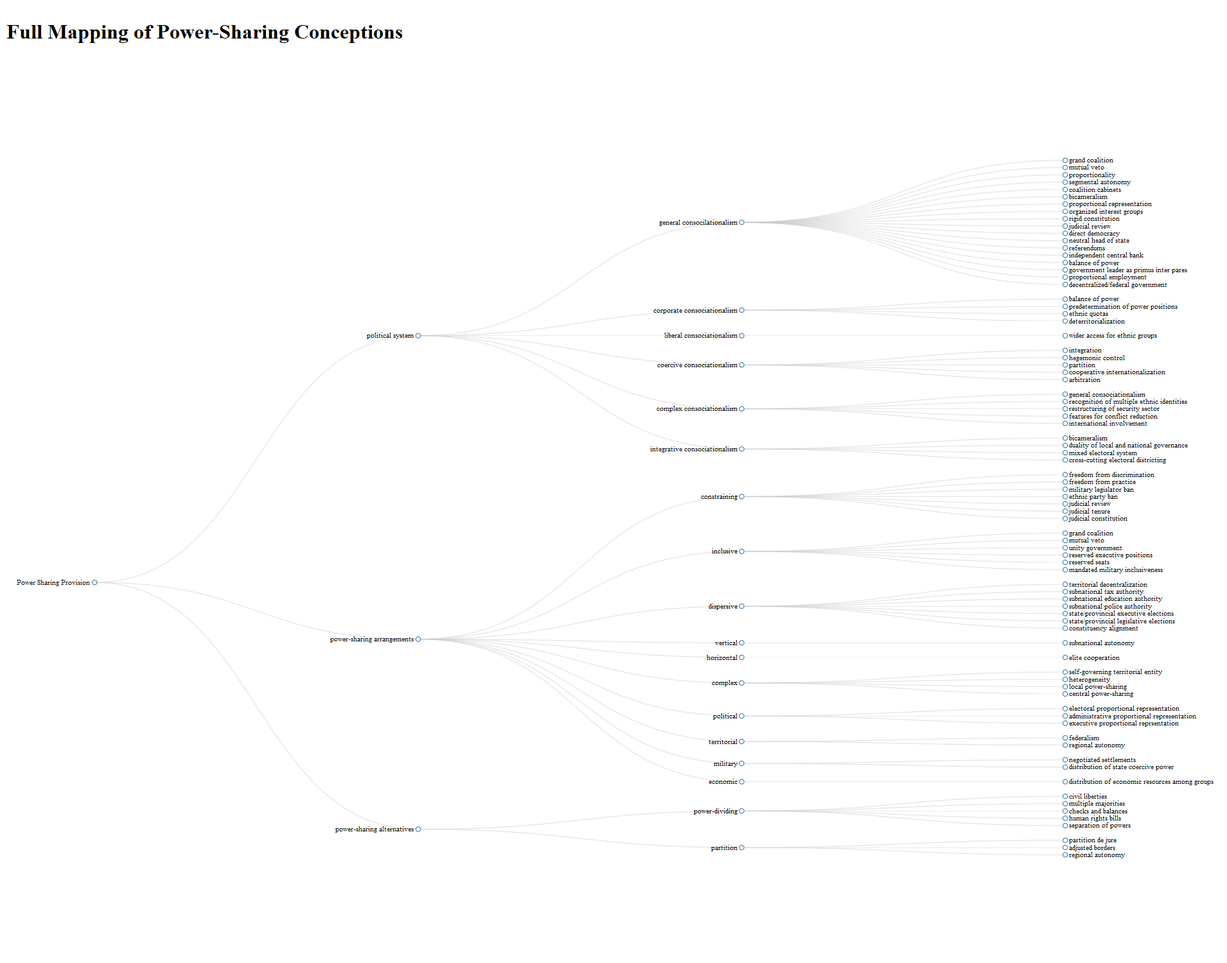
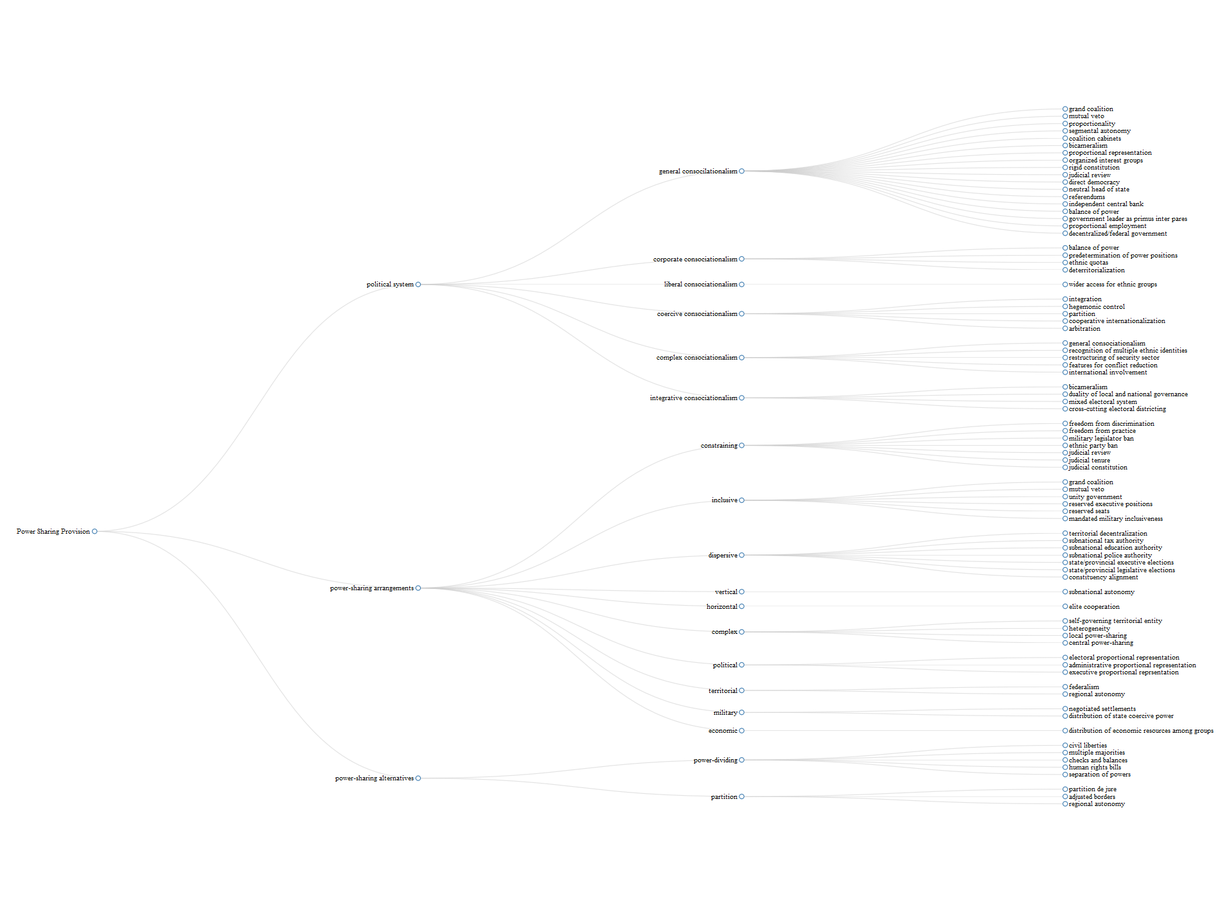
updated ont vis

diff --git a/vis/psp_ontology_vis.html b/vis/psp_ontology_vis.html
@@ -1108,14 +1108,11 @@ return function(){for(var n=0,e=0;e<t;++e)n+=Math.random();return n}},um=functio
 </head>
 <body style="background-color: white;">
 <div id="htmlwidget_container">
-<h1>
-Full Mapping of Power-Sharing Conceptions
-</h1>
-<div id="htmlwidget-6fadf928797fe097ff94" class="diagonalNetwork html-widget" style="width:1900px;height:1400px;">
+<div id="htmlwidget-93b352dbcebba3dd1598" class="diagonalNetwork html-widget" style="width:1900px;height:1400px;">
 
 </div>
 </div>
-<script type="application/json" data-for="htmlwidget-6fadf928797fe097ff94">{"x":{"root":{"name":"Power Sharing Provision","children":[{"name":"political system","children":[{"name":"general consocilationalism","children":[{"name":"grand coalition","child_0":"political system","child_1":"general consocilationalism","provisions":"grand coalition"},{"name":"mutual veto","child_0":"political system","child_1":"general consocilationalism","provisions":"mutual veto"},{"name":"proportionality","child_0":"political system","child_1":"general consocilationalism","provisions":"proportionality"},{"name":"segmental autonomy","child_0":"political system","child_1":"general consocilationalism","provisions":"segmental autonomy"},{"name":"coalition cabinets","child_0":"political system","child_1":"general consocilationalism","provisions":"coalition cabinets"},{"name":"bicameralism","child_0":"political system","child_1":"general consocilationalism","provisions":"bicameralism"},{"name":"proportional representation","child_0":"political system","child_1":"general consocilationalism","provisions":"proportional representation"},{"name":"organized interest groups","child_0":"political system","child_1":"general consocilationalism","provisions":"organized interest groups"},{"name":"rigid constitution","child_0":"political system","child_1":"general consocilationalism","provisions":"rigid constitution"},{"name":"judicial review","child_0":"political system","child_1":"general consocilationalism","provisions":"judicial review"},{"name":"direct democracy","child_0":"political system","child_1":"general consocilationalism","provisions":"direct democracy"},{"name":"neutral head of state","child_0":"political system","child_1":"general consocilationalism","provisions":"neutral head of state"},{"name":"referendums","child_0":"political system","child_1":"general consocilationalism","provisions":"referendums"},{"name":"independent central bank","child_0":"political system","child_1":"general consocilationalism","provisions":"independent central bank"},{"name":"balance of power","child_0":"political system","child_1":"general consocilationalism","provisions":"balance of power"},{"name":"government leader as primus inter pares","child_0":"political system","child_1":"general consocilationalism","provisions":"government leader as primus inter pares"},{"name":"proportional employment","child_0":"political system","child_1":"general consocilationalism","provisions":"proportional employment"},{"name":"decentralized/federal government","child_0":"political system","child_1":"general consocilationalism","provisions":"decentralized/federal government"}]},{"name":"corporate consociationalism","children":[{"name":"balance of power","child_0":"political system","child_1":"corporate consociationalism","provisions":"balance of power"},{"name":"predetermination of power positions","child_0":"political system","child_1":"corporate consociationalism","provisions":"predetermination of power positions"},{"name":"ethnic quotas","child_0":"political system","child_1":"corporate consociationalism","provisions":"ethnic quotas"},{"name":"deterritorialization","child_0":"political system","child_1":"corporate consociationalism","provisions":"deterritorialization"}]},{"name":"liberal consociationalism","children":[{"name":"wider access for ethnic groups","child_0":"political system","child_1":"liberal consociationalism","provisions":"wider access for ethnic groups"}]},{"name":"coercive consociationalism","children":[{"name":"integration","child_0":"political system","child_1":"coercive consociationalism","provisions":"integration"},{"name":"hegemonic control","child_0":"political system","child_1":"coercive consociationalism","provisions":"hegemonic control"},{"name":"partition","child_0":"political system","child_1":"coercive consociationalism","provisions":"partition"},{"name":"cooperative internationalization","child_0":"political system","child_1":"coercive consociationalism","provisions":"cooperative internationalization"},{"name":"arbitration","child_0":"political system","child_1":"coercive consociationalism","provisions":"arbitration"}]},{"name":"complex consociationalism","children":[{"name":"general consociationalism","child_0":"political system","child_1":"complex consociationalism","provisions":"general consociationalism"},{"name":"recognition of multiple ethnic identities","child_0":"political system","child_1":"complex consociationalism","provisions":"recognition of multiple ethnic identities"},{"name":"restructuring of security sector","child_0":"political system","child_1":"complex consociationalism","provisions":"restructuring of security sector"},{"name":"features for conflict reduction","child_0":"political system","child_1":"complex consociationalism","provisions":"features for conflict reduction"},{"name":"international involvement","child_0":"political system","child_1":"complex consociationalism","provisions":"international involvement"}]},{"name":"integrative consociationalism","children":[{"name":"bicameralism","child_0":"political system","child_1":"integrative consociationalism","provisions":"bicameralism"},{"name":"duality of local and national governance","child_0":"political system","child_1":"integrative consociationalism","provisions":"duality of local and national governance"},{"name":"mixed electoral system","child_0":"political system","child_1":"integrative consociationalism","provisions":"mixed electoral system"},{"name":"cross-cutting electoral districting","child_0":"political system","child_1":"integrative consociationalism","provisions":"cross-cutting electoral districting"}]}]},{"name":"power-sharing arrangements","children":[{"name":"constraining","children":[{"name":"freedom from discrimination","child_0":"power-sharing arrangements","child_1":"constraining","provisions":"freedom from discrimination"},{"name":"freedom from practice","child_0":"power-sharing arrangements","child_1":"constraining","provisions":"freedom from practice"},{"name":"military legislator ban","child_0":"power-sharing arrangements","child_1":"constraining","provisions":"military legislator ban"},{"name":"ethnic party ban","child_0":"power-sharing arrangements","child_1":"constraining","provisions":"ethnic party ban"},{"name":"judicial review","child_0":"power-sharing arrangements","child_1":"constraining","provisions":"judicial review"},{"name":"judicial tenure","child_0":"power-sharing arrangements","child_1":"constraining","provisions":"judicial tenure"},{"name":"judicial constitution","child_0":"power-sharing arrangements","child_1":"constraining","provisions":"judicial constitution"}]},{"name":"inclusive","children":[{"name":"grand coalition","child_0":"power-sharing arrangements","child_1":"inclusive","provisions":"grand coalition"},{"name":"mutual veto","child_0":"power-sharing arrangements","child_1":"inclusive","provisions":"mutual veto"},{"name":"unity government","child_0":"power-sharing arrangements","child_1":"inclusive","provisions":"unity government"},{"name":"reserved executive positions","child_0":"power-sharing arrangements","child_1":"inclusive","provisions":"reserved executive positions"},{"name":"reserved seats","child_0":"power-sharing arrangements","child_1":"inclusive","provisions":"reserved seats"},{"name":"mandated military inclusiveness","child_0":"power-sharing arrangements","child_1":"inclusive","provisions":"mandated military inclusiveness"}]},{"name":"dispersive","children":[{"name":"territorial decentralization","child_0":"power-sharing arrangements","child_1":"dispersive","provisions":"territorial decentralization"},{"name":"subnational tax authority","child_0":"power-sharing arrangements","child_1":"dispersive","provisions":"subnational tax authority"},{"name":"subnational education authority","child_0":"power-sharing arrangements","child_1":"dispersive","provisions":"subnational education authority"},{"name":"subnational police authority","child_0":"power-sharing arrangements","child_1":"dispersive","provisions":"subnational police authority"},{"name":"state/provincial executive elections","child_0":"power-sharing arrangements","child_1":"dispersive","provisions":"state/provincial executive elections"},{"name":"state/provincial legislative elections","child_0":"power-sharing arrangements","child_1":"dispersive","provisions":"state/provincial legislative elections"},{"name":"constituency alignment","child_0":"power-sharing arrangements","child_1":"dispersive","provisions":"constituency alignment"}]},{"name":"vertical","children":[{"name":"subnational autonomy","child_0":"power-sharing arrangements","child_1":"vertical","provisions":"subnational autonomy"}]},{"name":"horizontal","children":[{"name":"elite cooperation","child_0":"power-sharing arrangements","child_1":"horizontal","provisions":"elite cooperation"}]},{"name":"complex","children":[{"name":"self-governing territorial entity","child_0":"power-sharing arrangements","child_1":"complex","provisions":"self-governing territorial entity"},{"name":"heterogeneity","child_0":"power-sharing arrangements","child_1":"complex","provisions":"heterogeneity"},{"name":"local power-sharing","child_0":"power-sharing arrangements","child_1":"complex","provisions":"local power-sharing"},{"name":"central power-sharing","child_0":"power-sharing arrangements","child_1":"complex","provisions":"central power-sharing"}]},{"name":"political","children":[{"name":"electoral proportional representation","child_0":"power-sharing arrangements","child_1":"political","provisions":"electoral proportional representation"},{"name":"administrative proportional representation","child_0":"power-sharing arrangements","child_1":"political","provisions":"administrative proportional representation"},{"name":"executive proportional reprsentation","child_0":"power-sharing arrangements","child_1":"political","provisions":"executive proportional reprsentation"}]},{"name":"territorial","children":[{"name":"federalism","child_0":"power-sharing arrangements","child_1":"territorial","provisions":"federalism"},{"name":"regional autonomy","child_0":"power-sharing arrangements","child_1":"territorial","provisions":"regional autonomy"}]},{"name":"military","children":[{"name":"negotiated settlements","child_0":"power-sharing arrangements","child_1":"military","provisions":"negotiated settlements"},{"name":"distribution of state coercive power","child_0":"power-sharing arrangements","child_1":"military","provisions":"distribution of state coercive power"}]},{"name":"economic","children":[{"name":"distribution of economic resources among groups","child_0":"power-sharing arrangements","child_1":"economic","provisions":"distribution of economic resources among groups"}]}]},{"name":"power-sharing alternatives","children":[{"name":"power-dividing","children":[{"name":"civil liberties","child_0":"power-sharing alternatives","child_1":"power-dividing","provisions":"civil liberties"},{"name":"multiple majorities","child_0":"power-sharing alternatives","child_1":"power-dividing","provisions":"multiple majorities"},{"name":"checks and balances","child_0":"power-sharing alternatives","child_1":"power-dividing","provisions":"checks and balances"},{"name":"human rights bills","child_0":"power-sharing alternatives","child_1":"power-dividing","provisions":"human rights bills"},{"name":"separation of powers","child_0":"power-sharing alternatives","child_1":"power-dividing","provisions":"separation of powers"}]},{"name":"partition","children":[{"name":"partition de jure","child_0":"power-sharing alternatives","child_1":"partition","provisions":"partition de jure"},{"name":"adjusted borders","child_0":"power-sharing alternatives","child_1":"partition","provisions":"adjusted borders"},{"name":"regional autonomy","child_0":"power-sharing alternatives","child_1":"partition","provisions":"regional autonomy"}]}]}]},"options":{"height":1400,"width":1900,"fontSize":14,"fontFamily":"serif","linkColour":"#ccc","nodeColour":"#fff","nodeStroke":"steelblue","textColour":"black","margin":{"top":null,"right":null,"bottom":null,"left":null},"opacity":100}},"evals":[],"jsHooks":[]}</script>
-<script type="application/htmlwidget-sizing" data-for="htmlwidget-6fadf928797fe097ff94">{"viewer":{"width":1900,"height":1400,"padding":10,"fill":false},"browser":{"width":1900,"height":1400,"padding":10,"fill":false}}</script>
+<script type="application/json" data-for="htmlwidget-93b352dbcebba3dd1598">{"x":{"root":{"name":"Power Sharing Provision","children":[{"name":"political system","children":[{"name":"general consocilationalism","children":[{"name":"grand coalition","child_0":"political system","child_1":"general consocilationalism","provisions":"grand coalition"},{"name":"mutual veto","child_0":"political system","child_1":"general consocilationalism","provisions":"mutual veto"},{"name":"proportionality","child_0":"political system","child_1":"general consocilationalism","provisions":"proportionality"},{"name":"segmental autonomy","child_0":"political system","child_1":"general consocilationalism","provisions":"segmental autonomy"},{"name":"coalition cabinets","child_0":"political system","child_1":"general consocilationalism","provisions":"coalition cabinets"},{"name":"bicameralism","child_0":"political system","child_1":"general consocilationalism","provisions":"bicameralism"},{"name":"proportional representation","child_0":"political system","child_1":"general consocilationalism","provisions":"proportional representation"},{"name":"organized interest groups","child_0":"political system","child_1":"general consocilationalism","provisions":"organized interest groups"},{"name":"rigid constitution","child_0":"political system","child_1":"general consocilationalism","provisions":"rigid constitution"},{"name":"judicial review","child_0":"political system","child_1":"general consocilationalism","provisions":"judicial review"},{"name":"direct democracy","child_0":"political system","child_1":"general consocilationalism","provisions":"direct democracy"},{"name":"neutral head of state","child_0":"political system","child_1":"general consocilationalism","provisions":"neutral head of state"},{"name":"referendums","child_0":"political system","child_1":"general consocilationalism","provisions":"referendums"},{"name":"independent central bank","child_0":"political system","child_1":"general consocilationalism","provisions":"independent central bank"},{"name":"balance of power","child_0":"political system","child_1":"general consocilationalism","provisions":"balance of power"},{"name":"government leader as primus inter pares","child_0":"political system","child_1":"general consocilationalism","provisions":"government leader as primus inter pares"},{"name":"proportional employment","child_0":"political system","child_1":"general consocilationalism","provisions":"proportional employment"},{"name":"decentralized/federal government","child_0":"political system","child_1":"general consocilationalism","provisions":"decentralized/federal government"}]},{"name":"corporate consociationalism","children":[{"name":"balance of power","child_0":"political system","child_1":"corporate consociationalism","provisions":"balance of power"},{"name":"predetermination of power positions","child_0":"political system","child_1":"corporate consociationalism","provisions":"predetermination of power positions"},{"name":"ethnic quotas","child_0":"political system","child_1":"corporate consociationalism","provisions":"ethnic quotas"},{"name":"deterritorialization","child_0":"political system","child_1":"corporate consociationalism","provisions":"deterritorialization"}]},{"name":"liberal consociationalism","children":[{"name":"wider access for ethnic groups","child_0":"political system","child_1":"liberal consociationalism","provisions":"wider access for ethnic groups"}]},{"name":"coercive consociationalism","children":[{"name":"integration","child_0":"political system","child_1":"coercive consociationalism","provisions":"integration"},{"name":"hegemonic control","child_0":"political system","child_1":"coercive consociationalism","provisions":"hegemonic control"},{"name":"partition","child_0":"political system","child_1":"coercive consociationalism","provisions":"partition"},{"name":"cooperative internationalization","child_0":"political system","child_1":"coercive consociationalism","provisions":"cooperative internationalization"},{"name":"arbitration","child_0":"political system","child_1":"coercive consociationalism","provisions":"arbitration"}]},{"name":"complex consociationalism","children":[{"name":"general consociationalism","child_0":"political system","child_1":"complex consociationalism","provisions":"general consociationalism"},{"name":"recognition of multiple ethnic identities","child_0":"political system","child_1":"complex consociationalism","provisions":"recognition of multiple ethnic identities"},{"name":"restructuring of security sector","child_0":"political system","child_1":"complex consociationalism","provisions":"restructuring of security sector"},{"name":"features for conflict reduction","child_0":"political system","child_1":"complex consociationalism","provisions":"features for conflict reduction"},{"name":"international involvement","child_0":"political system","child_1":"complex consociationalism","provisions":"international involvement"}]},{"name":"integrative consociationalism","children":[{"name":"bicameralism","child_0":"political system","child_1":"integrative consociationalism","provisions":"bicameralism"},{"name":"duality of local and national governance","child_0":"political system","child_1":"integrative consociationalism","provisions":"duality of local and national governance"},{"name":"mixed electoral system","child_0":"political system","child_1":"integrative consociationalism","provisions":"mixed electoral system"},{"name":"cross-cutting electoral districting","child_0":"political system","child_1":"integrative consociationalism","provisions":"cross-cutting electoral districting"}]}]},{"name":"power-sharing arrangements","children":[{"name":"constraining","children":[{"name":"freedom from discrimination","child_0":"power-sharing arrangements","child_1":"constraining","provisions":"freedom from discrimination"},{"name":"freedom from practice","child_0":"power-sharing arrangements","child_1":"constraining","provisions":"freedom from practice"},{"name":"military legislator ban","child_0":"power-sharing arrangements","child_1":"constraining","provisions":"military legislator ban"},{"name":"ethnic party ban","child_0":"power-sharing arrangements","child_1":"constraining","provisions":"ethnic party ban"},{"name":"judicial review","child_0":"power-sharing arrangements","child_1":"constraining","provisions":"judicial review"},{"name":"judicial tenure","child_0":"power-sharing arrangements","child_1":"constraining","provisions":"judicial tenure"},{"name":"judicial constitution","child_0":"power-sharing arrangements","child_1":"constraining","provisions":"judicial constitution"}]},{"name":"inclusive","children":[{"name":"grand coalition","child_0":"power-sharing arrangements","child_1":"inclusive","provisions":"grand coalition"},{"name":"mutual veto","child_0":"power-sharing arrangements","child_1":"inclusive","provisions":"mutual veto"},{"name":"unity government","child_0":"power-sharing arrangements","child_1":"inclusive","provisions":"unity government"},{"name":"reserved executive positions","child_0":"power-sharing arrangements","child_1":"inclusive","provisions":"reserved executive positions"},{"name":"reserved seats","child_0":"power-sharing arrangements","child_1":"inclusive","provisions":"reserved seats"},{"name":"mandated military inclusiveness","child_0":"power-sharing arrangements","child_1":"inclusive","provisions":"mandated military inclusiveness"}]},{"name":"dispersive","children":[{"name":"territorial decentralization","child_0":"power-sharing arrangements","child_1":"dispersive","provisions":"territorial decentralization"},{"name":"subnational tax authority","child_0":"power-sharing arrangements","child_1":"dispersive","provisions":"subnational tax authority"},{"name":"subnational education authority","child_0":"power-sharing arrangements","child_1":"dispersive","provisions":"subnational education authority"},{"name":"subnational police authority","child_0":"power-sharing arrangements","child_1":"dispersive","provisions":"subnational police authority"},{"name":"state/provincial executive elections","child_0":"power-sharing arrangements","child_1":"dispersive","provisions":"state/provincial executive elections"},{"name":"state/provincial legislative elections","child_0":"power-sharing arrangements","child_1":"dispersive","provisions":"state/provincial legislative elections"},{"name":"constituency alignment","child_0":"power-sharing arrangements","child_1":"dispersive","provisions":"constituency alignment"}]},{"name":"vertical","children":[{"name":"subnational autonomy","child_0":"power-sharing arrangements","child_1":"vertical","provisions":"subnational autonomy"}]},{"name":"horizontal","children":[{"name":"elite cooperation","child_0":"power-sharing arrangements","child_1":"horizontal","provisions":"elite cooperation"}]},{"name":"complex","children":[{"name":"self-governing territorial entity","child_0":"power-sharing arrangements","child_1":"complex","provisions":"self-governing territorial entity"},{"name":"heterogeneity","child_0":"power-sharing arrangements","child_1":"complex","provisions":"heterogeneity"},{"name":"local power-sharing","child_0":"power-sharing arrangements","child_1":"complex","provisions":"local power-sharing"},{"name":"central power-sharing","child_0":"power-sharing arrangements","child_1":"complex","provisions":"central power-sharing"}]},{"name":"political","children":[{"name":"electoral proportional representation","child_0":"power-sharing arrangements","child_1":"political","provisions":"electoral proportional representation"},{"name":"administrative proportional representation","child_0":"power-sharing arrangements","child_1":"political","provisions":"administrative proportional representation"},{"name":"executive proportional reprsentation","child_0":"power-sharing arrangements","child_1":"political","provisions":"executive proportional reprsentation"}]},{"name":"territorial","children":[{"name":"federalism","child_0":"power-sharing arrangements","child_1":"territorial","provisions":"federalism"},{"name":"regional autonomy","child_0":"power-sharing arrangements","child_1":"territorial","provisions":"regional autonomy"}]},{"name":"military","children":[{"name":"negotiated settlements","child_0":"power-sharing arrangements","child_1":"military","provisions":"negotiated settlements"},{"name":"distribution of state coercive power","child_0":"power-sharing arrangements","child_1":"military","provisions":"distribution of state coercive power"}]},{"name":"economic","children":[{"name":"distribution of economic resources among groups","child_0":"power-sharing arrangements","child_1":"economic","provisions":"distribution of economic resources among groups"}]}]},{"name":"power-sharing alternatives","children":[{"name":"power-dividing","children":[{"name":"civil liberties","child_0":"power-sharing alternatives","child_1":"power-dividing","provisions":"civil liberties"},{"name":"multiple majorities","child_0":"power-sharing alternatives","child_1":"power-dividing","provisions":"multiple majorities"},{"name":"checks and balances","child_0":"power-sharing alternatives","child_1":"power-dividing","provisions":"checks and balances"},{"name":"human rights bills","child_0":"power-sharing alternatives","child_1":"power-dividing","provisions":"human rights bills"},{"name":"separation of powers","child_0":"power-sharing alternatives","child_1":"power-dividing","provisions":"separation of powers"}]},{"name":"partition","children":[{"name":"partition de jure","child_0":"power-sharing alternatives","child_1":"partition","provisions":"partition de jure"},{"name":"adjusted borders","child_0":"power-sharing alternatives","child_1":"partition","provisions":"adjusted borders"},{"name":"regional autonomy","child_0":"power-sharing alternatives","child_1":"partition","provisions":"regional autonomy"}]}]}]},"options":{"height":1400,"width":1900,"fontSize":14,"fontFamily":"serif","linkColour":"#ccc","nodeColour":"#fff","nodeStroke":"steelblue","textColour":"black","margin":{"top":null,"right":null,"bottom":null,"left":null},"opacity":100}},"evals":[],"jsHooks":[]}</script>
+<script type="application/htmlwidget-sizing" data-for="htmlwidget-93b352dbcebba3dd1598">{"viewer":{"width":1900,"height":1400,"padding":10,"fill":false},"browser":{"width":1900,"height":1400,"padding":10,"fill":false}}</script>
 </body>
 </html>

diff --git a/vis/reg_aut_ontology_vis.html b/vis/reg_aut_ontology_vis.html
@@ -1108,14 +1108,11 @@ return function(){for(var n=0,e=0;e<t;++e)n+=Math.random();return n}},um=functio
 </head>
 <body style="background-color: white;">
 <div id="htmlwidget_container">
-<h1>
-Mapping Regional Autonomy
-</h1>
-<div id="htmlwidget-ccd2c9d3e4355df64b0f" class="diagonalNetwork html-widget" style="width:1500px;height:1200px;">
+<div id="htmlwidget-90b245f5f049e669f25d" class="diagonalNetwork html-widget" style="width:1500px;height:1200px;">
 
 </div>
 </div>
-<script type="application/json" data-for="htmlwidget-ccd2c9d3e4355df64b0f">{"x":{"root":{"name":"regional autonomy","children":[{"name":"partition","children":[{"name":"Berg, Eiki, and Guy Ben-Porat. (2008).","citation":"Berg, Eiki, and Guy Ben-Porat. (2008).","concept":"partition","provision":"regional autonomy"}]},{"name":"territorial power-sharing","children":[{"name":"Hartzell, C., & Hoddie, M. (2007).","citation":"Hartzell, C., & Hoddie, M. (2007).","concept":"territorial power-sharing","provision":"regional autonomy"}]},{"name":"dispersive power-sharing","children":[{"name":"Strøm, K. W., Gates, S., Graham, B. A. T., & Strand, H. (2017).","citation":"Strøm, K. W., Gates, S., Graham, B. A. T., & Strand, H. (2017).","concept":"dispersive power-sharing","provision":"regional autonomy"}]},{"name":"complex power-sharing","children":[{"name":"Wolff, Stefan. (2009).","citation":"Wolff, Stefan. (2009).","concept":"complex power-sharing","provision":"regional autonomy"}]},{"name":"vertical power-sharing","children":[{"name":"Charron, N. (2009).","citation":"Charron, N. (2009).","concept":"vertical power-sharing","provision":"regional autonomy"}]},{"name":"consociationalism","children":[{"name":"Lijphart, A. (1969).","citation":"Lijphart, A. (1969).","concept":"consociationalism","provision":"regional autonomy"}]},{"name":"corporate consociationalism","children":[{"name":"O’Leary, Brendan. (2005).","citation":"O’Leary, Brendan. (2005).","concept":"corporate consociationalism","provision":"regional autonomy"}]}]},"options":{"height":1200,"width":1500,"fontSize":50,"fontFamily":"serif","linkColour":"#ccc","nodeColour":"#fff","nodeStroke":"steelblue","textColour":"black","margin":{"top":null,"right":null,"bottom":null,"left":null},"opacity":100}},"evals":[],"jsHooks":[]}</script>
-<script type="application/htmlwidget-sizing" data-for="htmlwidget-ccd2c9d3e4355df64b0f">{"viewer":{"width":1500,"height":1200,"padding":10,"fill":false},"browser":{"width":1500,"height":1200,"padding":10,"fill":false}}</script>
+<script type="application/json" data-for="htmlwidget-90b245f5f049e669f25d">{"x":{"root":{"name":"regional autonomy","children":[{"name":"partition","children":[{"name":"Berg, Eiki, and Guy Ben-Porat. (2008).","citation":"Berg, Eiki, and Guy Ben-Porat. (2008).","concept":"partition","provision":"regional autonomy"}]},{"name":"territorial power-sharing","children":[{"name":"Hartzell, C., & Hoddie, M. (2007).","citation":"Hartzell, C., & Hoddie, M. (2007).","concept":"territorial power-sharing","provision":"regional autonomy"}]},{"name":"dispersive power-sharing","children":[{"name":"Strøm, K. W., Gates, S., Graham, B. A. T., & Strand, H. (2017).","citation":"Strøm, K. W., Gates, S., Graham, B. A. T., & Strand, H. (2017).","concept":"dispersive power-sharing","provision":"regional autonomy"}]},{"name":"complex power-sharing","children":[{"name":"Wolff, Stefan. (2009).","citation":"Wolff, Stefan. (2009).","concept":"complex power-sharing","provision":"regional autonomy"}]},{"name":"vertical power-sharing","children":[{"name":"Charron, N. (2009).","citation":"Charron, N. (2009).","concept":"vertical power-sharing","provision":"regional autonomy"}]},{"name":"consociationalism","children":[{"name":"Lijphart, A. (1969).","citation":"Lijphart, A. (1969).","concept":"consociationalism","provision":"regional autonomy"}]},{"name":"corporate consociationalism","children":[{"name":"O’Leary, Brendan. (2005).","citation":"O’Leary, Brendan. (2005).","concept":"corporate consociationalism","provision":"regional autonomy"}]}]},"options":{"height":1200,"width":1500,"fontSize":50,"fontFamily":"serif","linkColour":"#ccc","nodeColour":"#fff","nodeStroke":"steelblue","textColour":"black","margin":{"top":null,"right":null,"bottom":null,"left":null},"opacity":100}},"evals":[],"jsHooks":[]}</script>
+<script type="application/htmlwidget-sizing" data-for="htmlwidget-90b245f5f049e669f25d">{"viewer":{"width":1500,"height":1200,"padding":10,"fill":false},"browser":{"width":1500,"height":1200,"padding":10,"fill":false}}</script>
 </body>
 </html>
